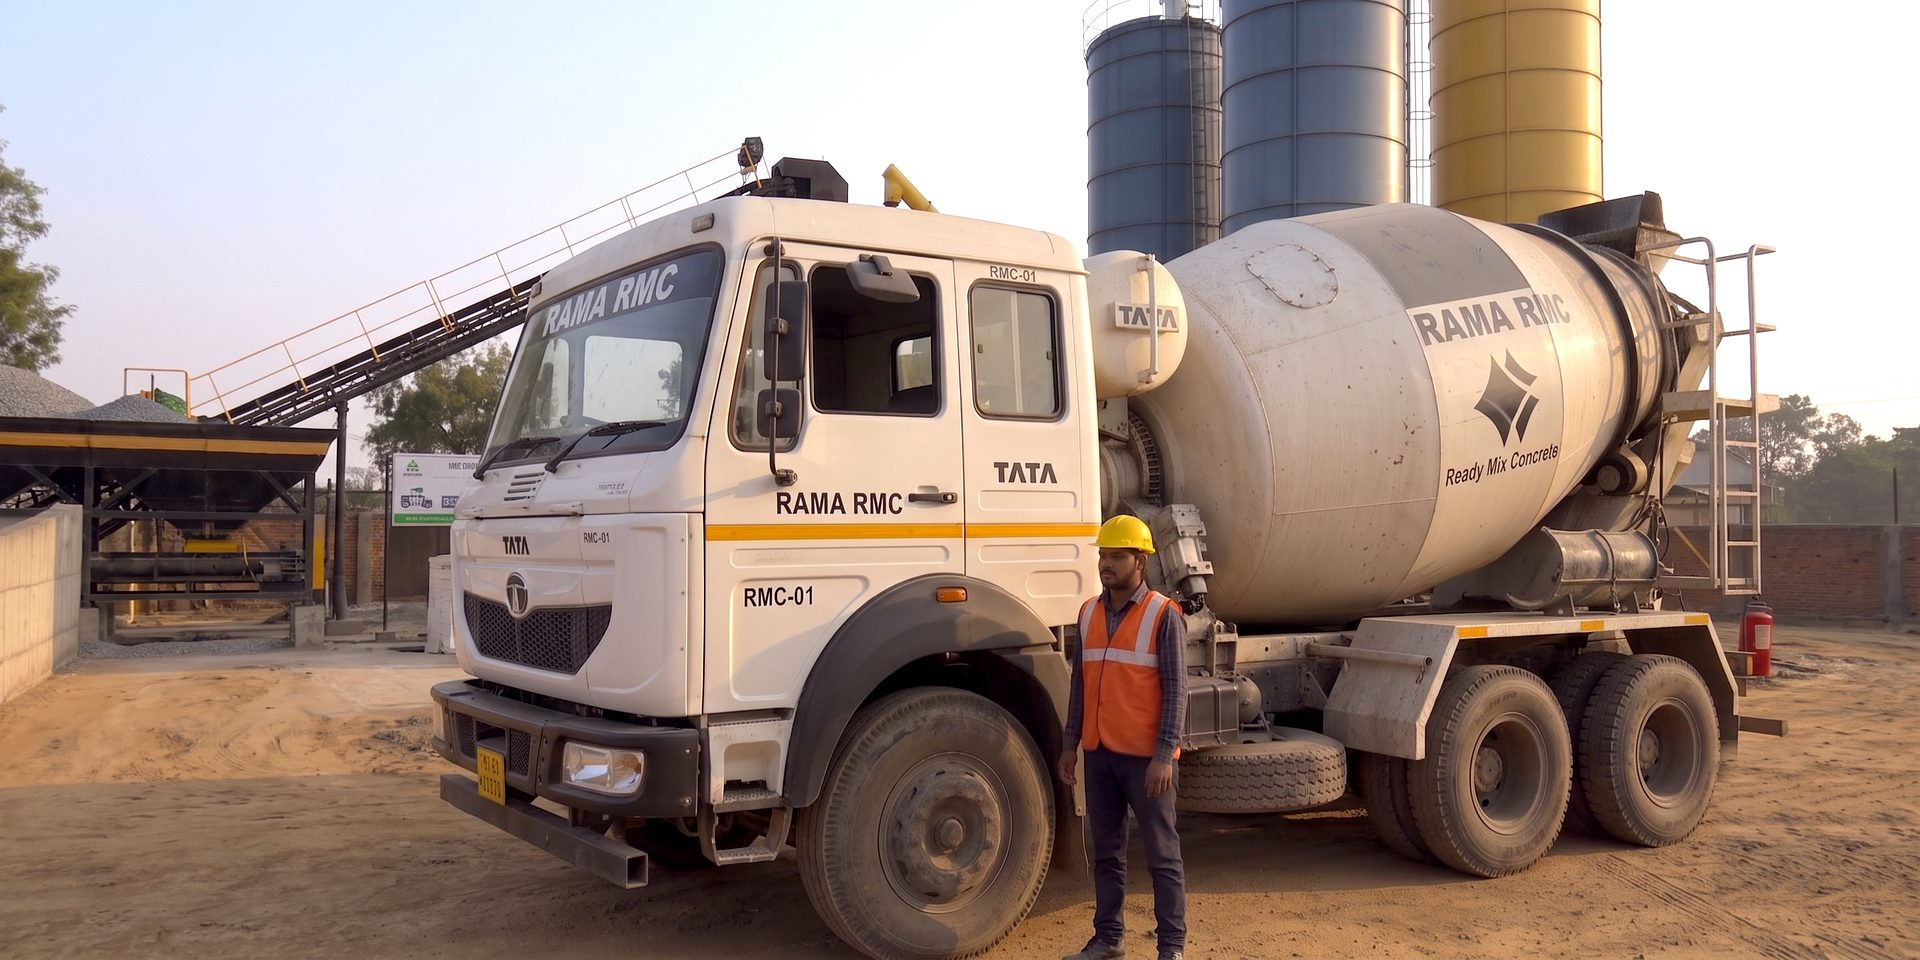
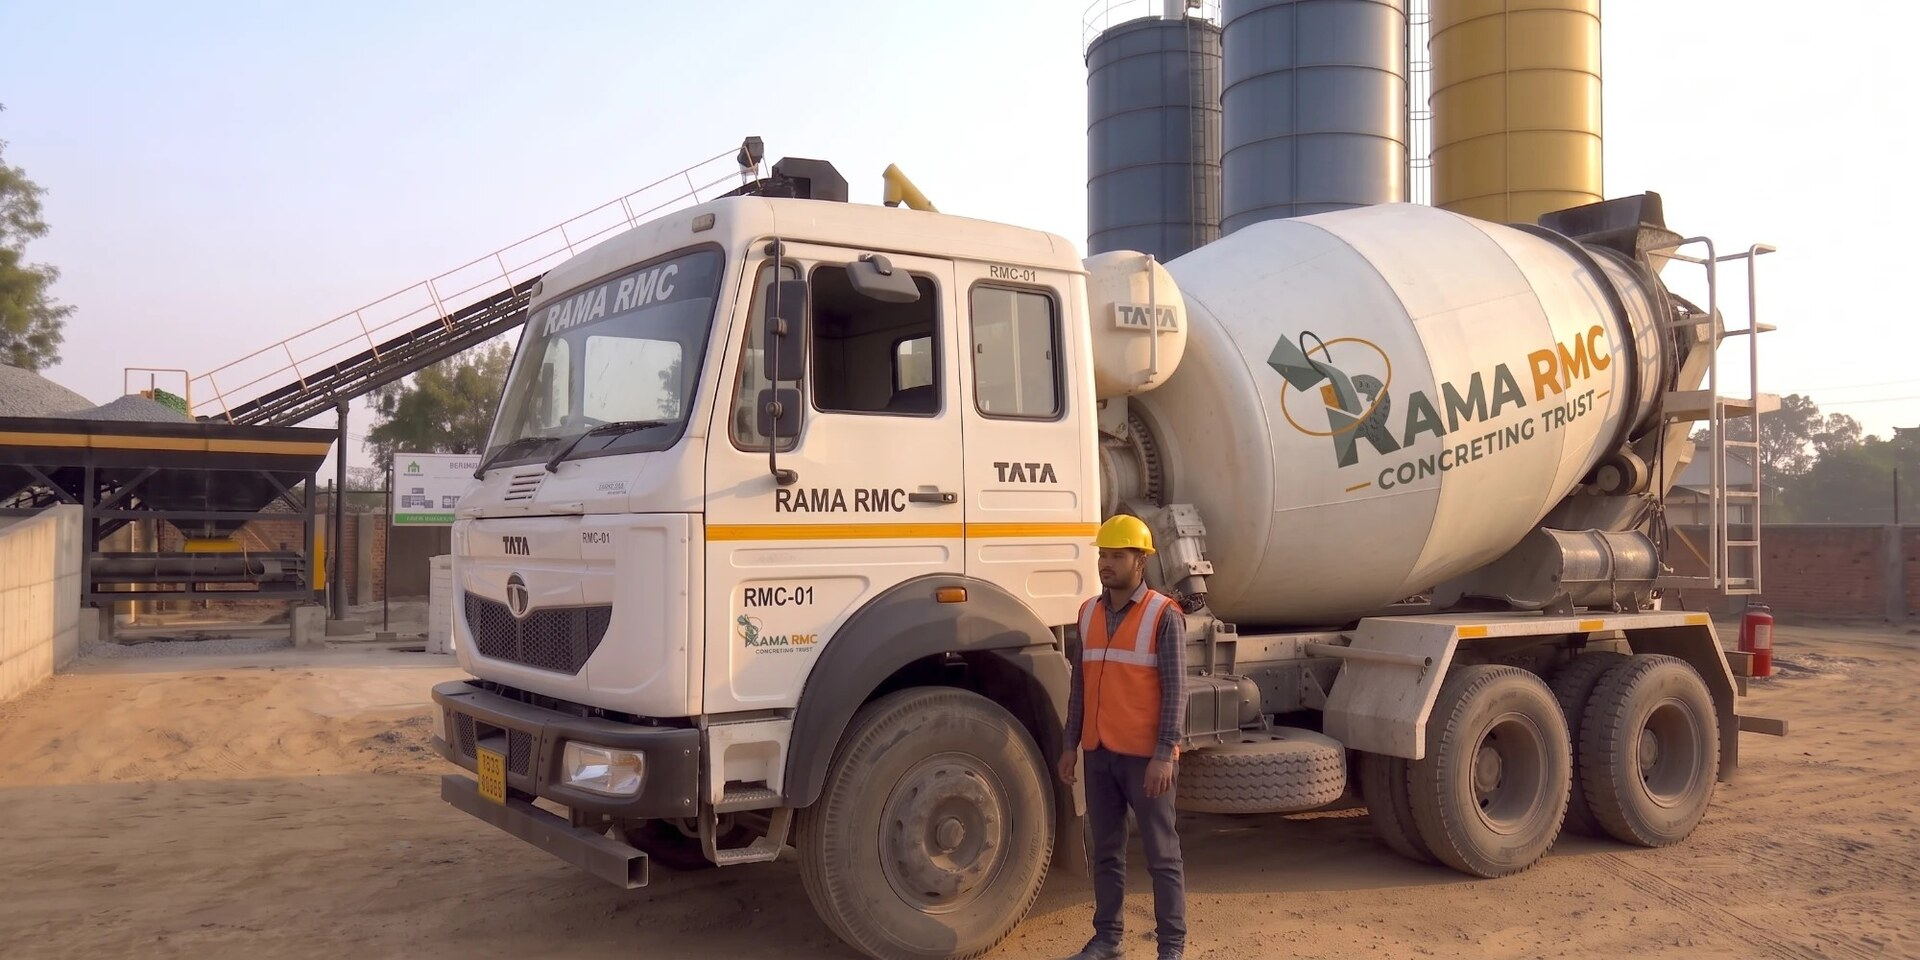
Use the new branded truck photos
- Hero slide and grades section photos now show the Rama RMC logo on
  the drum and cab door
- Removed the image tool's sparkle watermark from both
- Grades photo is framed to the right so the drum logo stays in view

Claude-Session: https://claude.ai/code/session_01JBVY6BBx7phefkvor5jGM1

diff --git a/app/page.tsx b/app/page.tsx
@@ -59,15 +59,22 @@ function Photo({
   src,
   alt,
   caption,
+  position,
 }: {
   src: string;
   alt: string;
   caption?: string;
+  position?: string;
 }) {
   return (
     <div className="photo">
       {src ? (
-        <img src={src} alt={alt} loading="lazy" />
+        <img
+          src={src}
+          alt={alt}
+          loading="lazy"
+          style={position ? { objectPosition: position } : undefined}
+        />
       ) : (
         <div className="photo-empty">
           Photo slot: {alt}. Drop the file in /public and set its name in
@@ -181,8 +188,9 @@ export default function Home() {
         <Reveal className="wrap photo-split">
           <Photo
             src={PHOTOS.truck}
-            alt="RamaRMC transit mixer"
+            alt="Rama RMC transit mixer with the company logo on the drum"
             caption="Transit mixer, RMC-01"
+            position="right center"
           />
           <div>
             <h2>Grades from M7.5 to M60.</h2>
